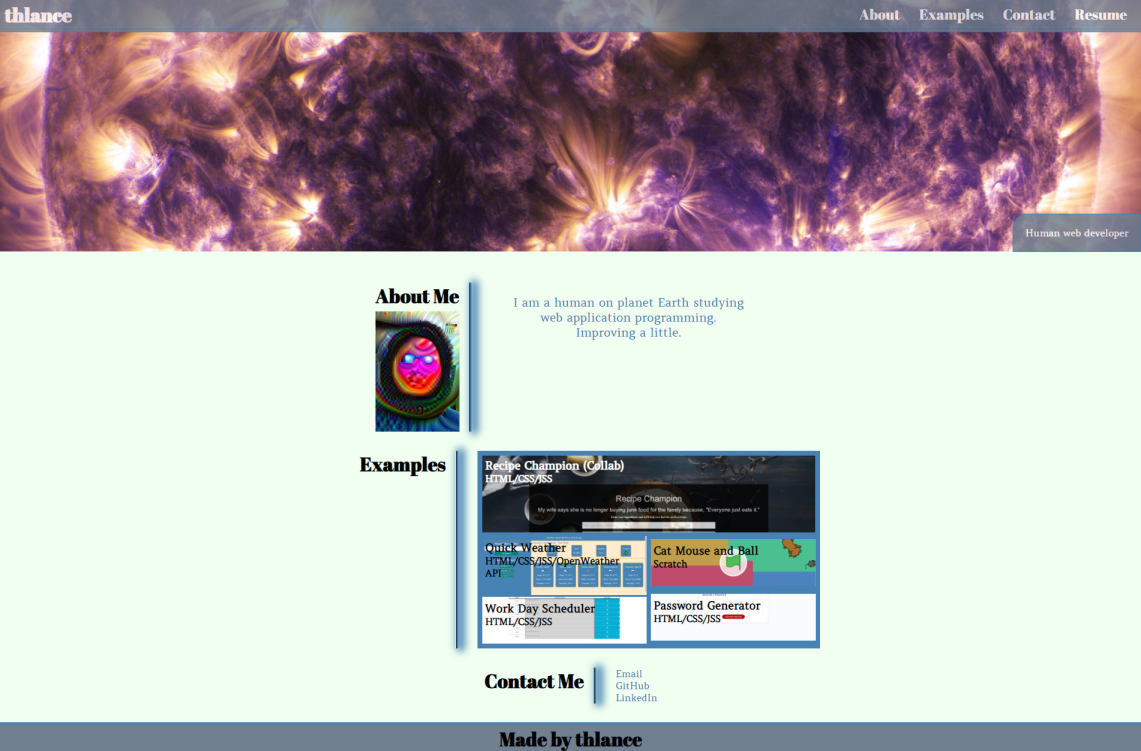
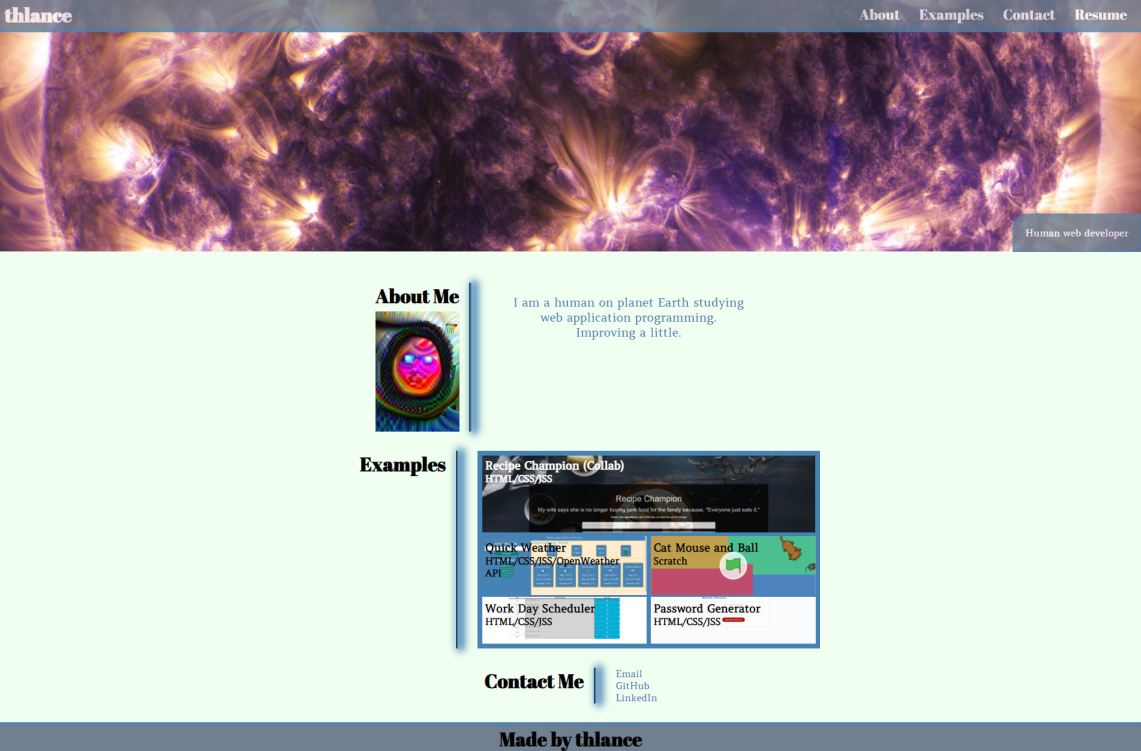
Fixed height

Changed region(s): [[0.5521, 0.7044, 0.7362, 0.8575]]

diff --git a/assets/css/style.css b/assets/css/style.css
@@ -304,6 +304,9 @@ footer h5 {
     background-size: cover;
     background-position: center right;
     background-repeat: no-repeat;
+    height: 98px;
+    max-height: 98px;
+    width: 100%;
 }
 
 #pwGen article {
